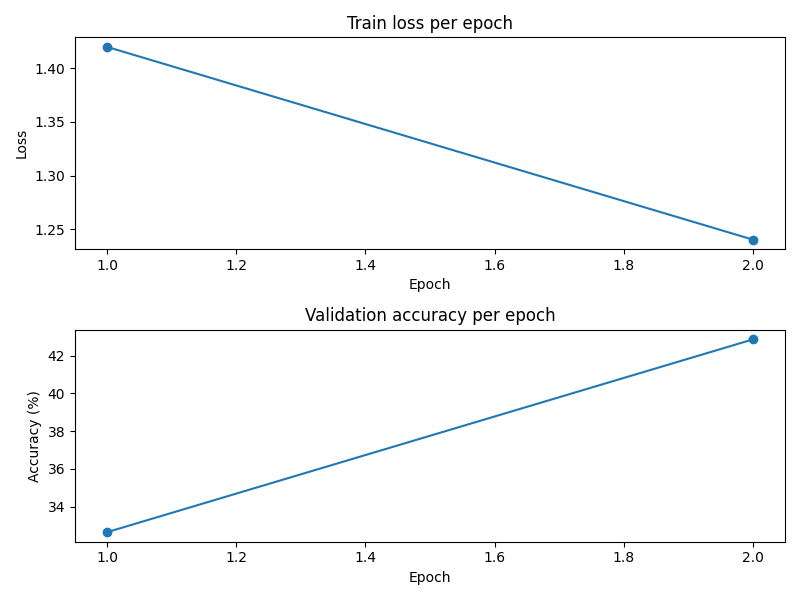
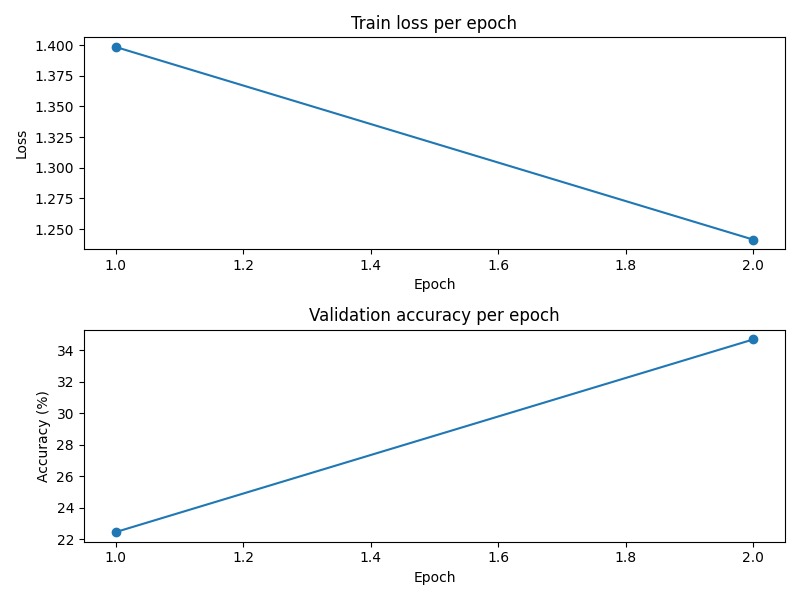
matrix opgeslagen

diff --git a/Training_Model.py b/Training_Model.py
@@ -1,5 +1,4 @@
-
-
+#TODO testen met verschillende waarden, clean-up, ?zwart-wit?, ?nieuw model?, ptt
 import os
 import time
 from collections import Counter
@@ -16,11 +15,235 @@ from PIL import Image
 import matplotlib.pyplot as plt
 import numpy as np
 
+# ====================== CONFIG ======================
+base_url = "C:\\School\\3de ba\\mach\\taak\\dataset"
+
+train_data_url = os.path.join(base_url, "train", "images")
+valid_data_url = os.path.join(base_url, "valid", "images")
+test_data_url  = os.path.join(base_url, "test",  "images")
+
+train_labels_url = os.path.join(base_url, "train", "labels")
+valid_labels_url = os.path.join(base_url, "valid", "labels")
+test_labels_url  = os.path.join(base_url, "test",  "labels")
+
+#name sequence
+batch_size = 32
+learning_rate = 1e-4
+epochs = 2
+img_size = 224
+
+num_classes = 4
+model_save_path = "C:\\School\\3de ba\\mach\\taak\\dataset\\ResNet18_finetuned.pth"
+
+num_workers = min(4, os.cpu_count() or 0)  # safe default
+
+# ====================== DATASET ======================
+class YOLODataset(Dataset):
+
+    def __init__(self, image_dir, label_dir, transform=None):
+        self.image_dir = image_dir
+        self.label_dir = label_dir
+        self.transform = transform
+        self.images = sorted([f for f in os.listdir(image_dir)
+                       if f.lower().endswith(('.jpg', '.jpeg', '.png'))])
+
+    def __len__(self):
+        return len(self.images)
+
+    def __getitem__(self, idx):
+        img_name = self.images[idx]
+        img_path = os.path.join(self.image_dir, img_name)
+        image = Image.open(img_path).convert('RGB')
+
+        label_name = os.path.splitext(img_name)[0] + '.txt'
+        label_path = os.path.join(self.label_dir, label_name)
+
+        label = 0
+        if os.path.exists(label_path):
+            with open(label_path, 'r') as f:
+                line = f.readline().strip()
+                if line:
+                    try:
+                        label = int(line.split()[0])
+                    except Exception:
+                        label = 0
+
+        if self.transform:
+            image = self.transform(image)
+
+        return image, pt.tensor(label, dtype=pt.long)
+
+# ====================== TRANSFORMS ======================
+train_transform = Compose([
+    Resize((img_size, img_size)),
+    RandomHorizontalFlip(p=0.5),
+    RandomRotation(10),
+    ColorJitter(brightness=0.15, contrast=0.15, saturation=0.15),
+    ToTensor(),
+    Normalize(mean=[0.485, 0.456, 0.406],
+              std =[0.229, 0.224, 0.225])
+])
+
+eval_transform = Compose([
+    Resize((img_size, img_size)),
+    ToTensor(),
+    Normalize(mean=[0.485, 0.456, 0.406],
+              std =[0.229, 0.224, 0.225])
+])
+
+# ====================== MODEL UTIL ======================
+def get_resnet18(num_classes, device, pretrained=True, unfreeze_layer4=True):
+    model = models.resnet18(pretrained=pretrained)
+    # Freeze all params first
+    for p in model.parameters():
+        p.requires_grad = False
+    # Unfreeze last block (layer4) if requested (fine-tuning)
+    if unfreeze_layer4:
+        for name, param in model.named_parameters():
+            if name.startswith("layer4"):
+                param.requires_grad = True
+    # Replace head
+    in_feats = model.fc.in_features
+    model.fc = nn.Sequential(
+        nn.Linear(in_feats, 256),
+        nn.ReLU(),
+        nn.Dropout(0.5),
+        nn.Linear(256, num_classes)
+    )
+    model = model.to(device)
+    return model
+
+# ====================== TRAIN/VAL/TEST HELPERS ======================
+def compute_accuracy(model, loader, device):
+    model.eval()
+    correct = 0
+    total = 0
+    preds = []
+    trues = []
+    with pt.no_grad():
+        for imgs, labels in loader:
+            imgs = imgs.to(device); labels = labels.to(device)
+            out = model(imgs)
+            p = out.argmax(dim=1)
+            correct += (p == labels).sum().item()
+            total += labels.size(0)
+            preds.extend(p.cpu().numpy().tolist())
+            trues.extend(labels.cpu().numpy().tolist())
+    acc = 100.0 * correct / total if total > 0 else 0.0
+    return acc, np.array(trues), np.array(preds)
+
+def confusion_matrix_from_arrays(trues, preds, num_classes):
+    cm = np.zeros((num_classes, num_classes), dtype=int)
+    for t, p in zip(trues, preds):
+        cm[int(t), int(p)] += 1
+    return cm
+
 # ====================== MAIN ======================
 def main():
     # Device
     device = pt.device("cuda" if pt.cuda.is_available() else "cpu")
     print("Using device:", device)
+
+    # Datasets & loaders
+    train_dataset = YOLODataset(train_data_url, train_labels_url, transform=train_transform)
+    valid_dataset = YOLODataset(valid_data_url, valid_labels_url, transform=eval_transform)
+    test_dataset  = YOLODataset(test_data_url,  test_labels_url,  transform=eval_transform)
+
+    print(f"Train samples: {len(train_dataset)} | Val samples: {len(valid_dataset)} | Test samples: {len(test_dataset)}")
+
+    # Quick label distribution check
+    try:
+        labels = [train_dataset[i][1].item() for i in range(len(train_dataset))]
+        print("Train label counts:", Counter(labels))
+    except Exception as e:
+        print("Could not compute label distribution:", e)
+
+    train_loader = DataLoader(train_dataset, batch_size=batch_size, shuffle=True,
+                              num_workers=num_workers, pin_memory=(device.type=="cuda"))
+    valid_loader = DataLoader(valid_dataset, batch_size=batch_size, shuffle=False,
+                              num_workers=num_workers, pin_memory=(device.type=="cuda"))
+    test_loader  = DataLoader(test_dataset, batch_size=batch_size, shuffle=False,
+                              num_workers=num_workers, pin_memory=(device.type=="cuda"))
+
+    # Model, loss, optimizer
+    model = get_resnet18(num_classes=num_classes, device=device, pretrained=True, unfreeze_layer4=True)
+    criterion = nn.CrossEntropyLoss()
+    # Only params that require_grad will be optimized (layer4 + fc)
+    optimizer = optim.Adam(filter(lambda p: p.requires_grad, model.parameters()), lr=learning_rate)
+    scheduler = optim.lr_scheduler.StepLR(optimizer, step_size=10, gamma=0.8)
+
+    best_val = -1.0
+    train_losses = []
+    val_accuracies = []
+    start_time = time.time()
+
+    for epoch in range(1, epochs + 1):
+        model.train()
+        running_loss = 0.0
+        batches = 0
+        for imgs, labels in train_loader:
+            imgs = imgs.to(device); labels = labels.to(device)
+            optimizer.zero_grad()
+            outputs = model(imgs)
+            loss = criterion(outputs, labels)
+            loss.backward()
+            optimizer.step()
+
+            running_loss += loss.item()
+            batches += 1
+
+        avg_loss = running_loss / max(1, batches)
+        train_losses.append(avg_loss)
+
+        val_acc, _, _ = compute_accuracy(model, valid_loader, device)
+        val_accuracies.append(val_acc)
+        scheduler.step()
+
+        elapsed = time.time() - start_time
+        print(f"Epoch {epoch:02d}/{epochs} | Loss: {avg_loss:.4f} | Val Acc: {val_acc:5.2f}% | Time elapsed: {elapsed/60:.1f} min")
+
+        # Save best model
+        if val_acc > best_val:
+            best_val = val_acc
+            os.makedirs(os.path.dirname(model_save_path), exist_ok=True)
+            pt.save({
+                "model_state": model.state_dict(),
+                "optimizer_state": optimizer.state_dict(),
+                "epoch": epoch,
+                "val_accuracy": val_acc
+            }, model_save_path)
+            print(f" -> New best model saved (val {val_acc:.2f}%)")
+
+    # Load best model for final eval
+    chk = pt.load(model_save_path, map_location=device)
+    model.load_state_dict(chk["model_state"])
+
+    test_acc, trues, preds = compute_accuracy(model, test_loader, device)
+    print(f"\nFinal test accuracy: {test_acc:.2f}%")
+
+    cm = confusion_matrix_from_arrays(trues, preds, num_classes)
+    cm_str = np.array2string(cm)
+    fname = f"ConfusionMatrix_{batch_size}_{learning_rate}_{epochs}_{img_size}.txt"
+    dirname = os.path.dirname(fname)
+    if dirname:
+        os.makedirs(dirname, exist_ok=True)
+    with open(fname, "w") as f:
+        f.write(f"ConfusionMatrix_{batch_size}_{learning_rate}_{epochs}_{img_size}:\n   0 1 2 3\n{cm_str}\n")
+    print("Confusion matrix (rows=true, cols=pred):\n" + cm_str)
+
+    # Plot loss + val acc
+    plt.figure(figsize=(8,6))
+    plt.subplot(2,1,1)
+    plt.plot(range(1, len(train_losses)+1), train_losses, marker='o')
+    plt.title("Train loss per epoch")
+    plt.xlabel("Epoch"); plt.ylabel("Loss")
+    plt.subplot(2,1,2)
+    plt.plot(range(1, len(val_accuracies)+1), val_accuracies, marker='o')
+    plt.title("Validation accuracy per epoch")
+    plt.xlabel("Epoch"); plt.ylabel("Accuracy (%)")
+    plt.tight_layout()
+    plt.savefig(f"training_summary_{batch_size}_{learning_rate}_{epochs}_{img_size}.png")
+    plt.show()
 
 if __name__ == "__main__":
     import multiprocessing
